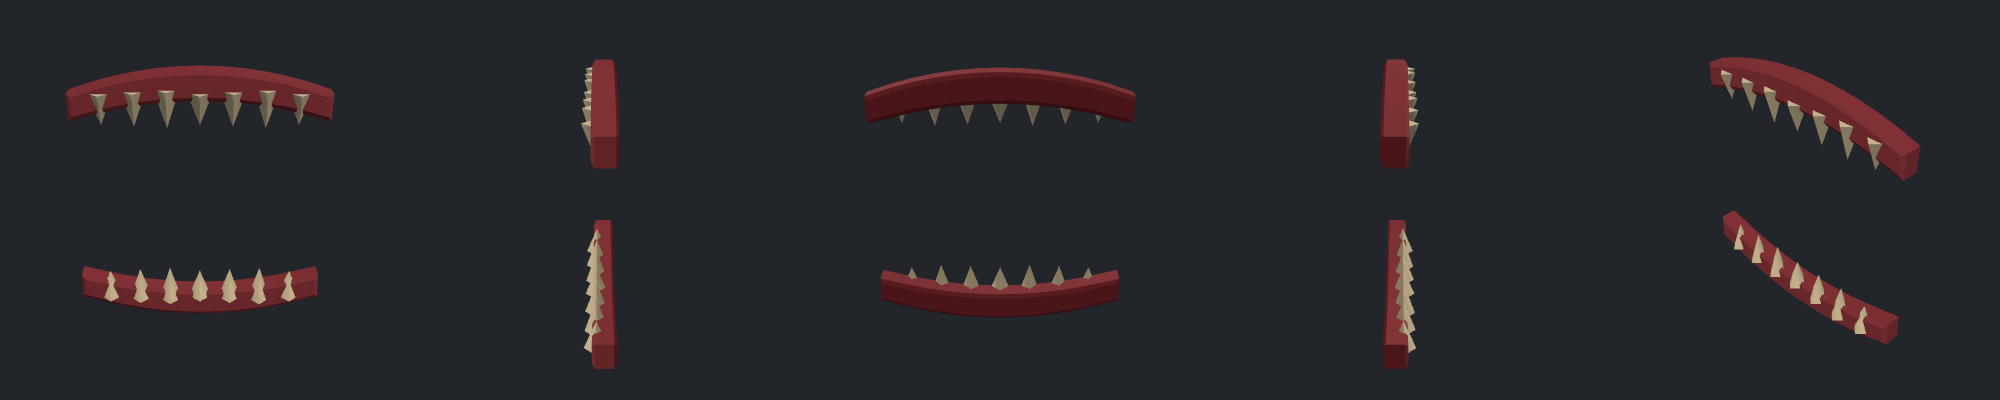
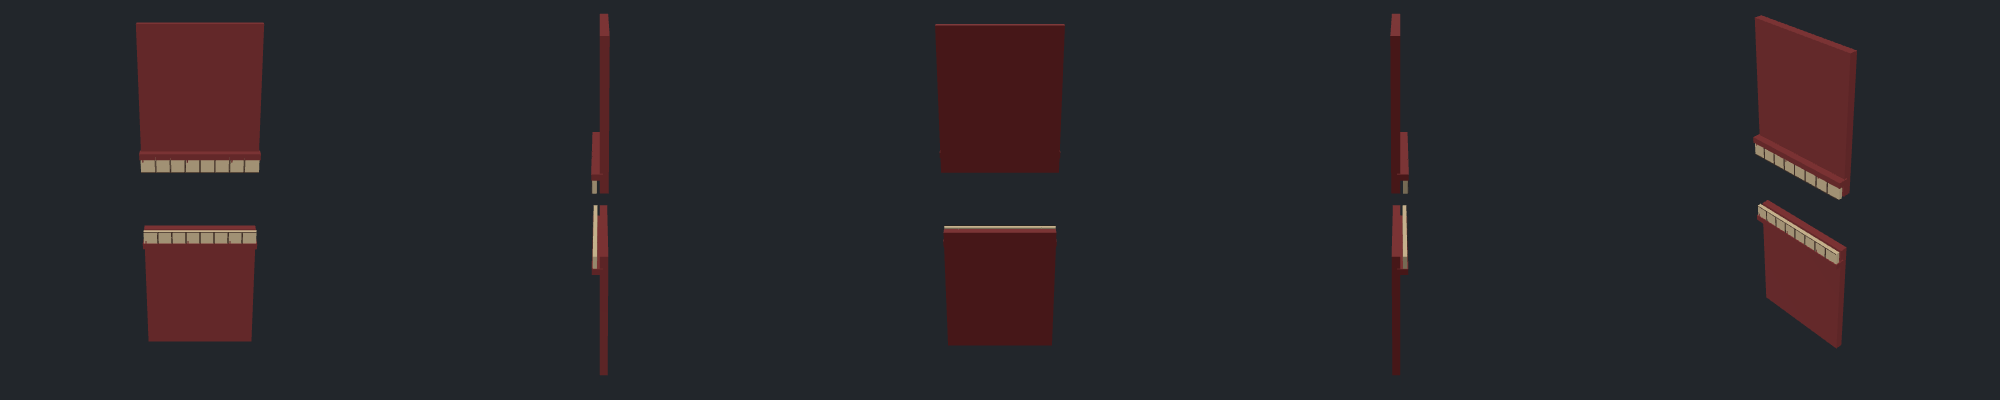
Close clown jaws continuously with a sealed tooth seam

diff --git a/two-d/street.js b/two-d/street.js
@@ -1,3 +1,4 @@
+import {mouthProgress} from './levels/mouth-motion.js';
 import {createForecourt} from './forecourt.js';
 import {createPropRenderer} from './three-props.js';
 import {createToyInspector} from './toy-inspection.js';
@@ -65,7 +66,7 @@ const fog=document.createElement('canvas');fog.width=160;fog.height=60;const fg=
 function fogLayer(){ctx.save();ctx.globalAlpha=.22;for(let i=0;i<4;i++){const drift=reduced?0:Math.sin(s.time*.06+i)*42;ctx.drawImage(fog,-70+i*138+drift,235+Math.sin(i)*27,240,65);}ctx.restore();}
 function paper(){if(s.newspaper)return;ctx.save();ctx.translate(63,242);ctx.rotate(-.25);rect(-8,-4,18,11,'#392e21aa');rect(-9,-5,18,10,'#c0ac79');rect(-8,-4,16,2,'#4c4030');line(0,-1,0,4,'#776243');for(let j=0;j<3;j++){rect(-7,-1+j*2,6,1,'#796647');rect(2,-1+j*2,5,1,'#796647');}ctx.restore();}
 function flashlight(){if(!s.light)return;const a={up:-Math.PI/2,down:Math.PI/2,left:Math.PI,right:0}[s.face],x=s.x,y=s.y-9;ctx.save();ctx.globalCompositeOperation='screen';const g=ctx.createRadialGradient(x,y,2,x,y,73);g.addColorStop(0,'#bda05c35');g.addColorStop(1,'#bda05c00');ctx.fillStyle=g;ctx.beginPath();ctx.moveTo(x,y);ctx.arc(x,y,73,a-.38,a+.38);ctx.closePath();ctx.fill();ctx.restore();}
-function render(){ctx.clearRect(0,0,480,360);if(ready)ctx.drawImage(bg,0,0,480,360);ferris();forecourt?.draw(ctx,s,false);lighting();paper();props.draw(ctx,'ticket');props.draw(ctx,'toy');if(s.y>=150)props.draw(ctx,'gate',s.gateProgress);if(running||s.phase==='complete'){drawPlayer(ctx,s,(keys.size||route.length)&&!paused&&!dialog);flashlight();}forecourt?.draw(ctx,s,true);if(s.phase==='entering'){props.draw(ctx,'mouth',Math.min(1,Math.max(0,(s.entryTime-.35)/1.3)));}props.drawRavens(ctx,s.ravens);if(s.y<150)props.draw(ctx,'gate',s.gateProgress);fogLayer();
+function render(){ctx.clearRect(0,0,480,360);if(ready)ctx.drawImage(bg,0,0,480,360);ferris();forecourt?.draw(ctx,s,false);lighting();paper();props.draw(ctx,'ticket');props.draw(ctx,'toy');if(s.y>=150)props.draw(ctx,'gate',s.gateProgress);if(running||s.phase==='complete'){ctx.save();if(s.phase==='entering')ctx.globalAlpha=Math.max(0,1-s.entryTime/.65);drawPlayer(ctx,s,(keys.size||route.length)&&!paused&&!dialog);if(s.phase!=='entering')flashlight();ctx.restore();}forecourt?.draw(ctx,s,true);if(s.phase==='entering'){props.draw(ctx,'mouth',mouthProgress(s.entryTime));}props.drawRavens(ctx,s.ravens);if(s.y<150)props.draw(ctx,'gate',s.gateProgress);fogLayer();
   if(route.length){const p=route.at(-1);ctx.strokeStyle='#d8c69888';ctx.beginPath();ctx.ellipse(p.x,p.y,4,2,0,0,Math.PI*2);ctx.stroke();}
   if(s.phase==='entering'){ctx.fillStyle=`rgba(3,5,5,${Math.max(0,(s.entryTime-1.8)/.8)})`;ctx.fillRect(0,0,480,360);}
   if(paused){ctx.fillStyle='#080e0cc9';ctx.fillRect(0,0,480,360);ctx.fillStyle='#d9c49d';ctx.font='16px monospace';ctx.textAlign='center';ctx.fillText('PAUSED',240,176);ctx.textAlign='left';}
@@ -79,4 +80,4 @@ function frame(now){const dt=Math.min(.04,(now-last)/1000);last=now;if(running&&
   if(s.gateProgress>=1&&s.y<138){persist();finish();}
 }}render();requestAnimationFrame(frame);}
 bg.onload=()=>{forecourt=createForecourt(bg);ready=true;$('#start').disabled=false;$('#start').textContent='BEGIN INVESTIGATION';$('#resume').hidden=!saved()&&!hallSave();};bg.onerror=()=>{$('#start').textContent='BACKGROUND FAILED — RELOAD';};
-Object.defineProperty(window,'fright2d',{get:()=>JSON.parse(JSON.stringify({...s,area:'street',running,paused,dialog:dialog?.name||null,inspection:inspector.snapshot(),toyInspection:toyInspector.snapshot(),props3d:props.snapshot(),foreground:forecourt?.snapshot(),ready,near:near(s)?.id||null,route:route.length,notes:campaign.journal.map(n=>n.id),wheelAngle:wheelAngle(s.time*(reduced?.3:1)),bulbs:bulbs.map((_,i)=>bulbLevel(s.time,i,reduced)),audio:Object.fromEntries(Object.entries(sound).map(([id,a])=>[id,{paused:a.paused,time:a.currentTime}]))}))});requestAnimationFrame(frame);
+Object.defineProperty(window,'fright2d',{get:()=>JSON.parse(JSON.stringify({...s,area:'street',running,paused,dialog:dialog?.name||null,inspection:inspector.snapshot(),toyInspection:toyInspector.snapshot(),props3d:props.snapshot(),mouthClosure:s.phase==='entering'?mouthProgress(s.entryTime):0,foreground:forecourt?.snapshot(),ready,near:near(s)?.id||null,route:route.length,notes:campaign.journal.map(n=>n.id),wheelAngle:wheelAngle(s.time*(reduced?.3:1)),bulbs:bulbs.map((_,i)=>bulbLevel(s.time,i,reduced)),audio:Object.fromEntries(Object.entries(sound).map(([id,a])=>[id,{paused:a.paused,time:a.currentTime}]))}))});requestAnimationFrame(frame);

diff --git a/two-d/three-props.js b/two-d/three-props.js
@@ -1,3 +1,4 @@
+import {poseJaws} from './levels/mouth-motion.js';
 import * as THREE from '../vendor/three.module.js';
 import turnstile from './assets/three/broken-turnstile.js';
 import carousel from './assets/three/windup-carousel.js';
@@ -11,12 +12,13 @@ export function createPropRenderer(){
  const scene=new THREE.Scene(),camera=new THREE.OrthographicCamera(-1.05,1.05,1.2,-1.2,.01,20);camera.position.set(1.8,2.2,5);camera.lookAt(0,.6,0);
  scene.add(new THREE.HemisphereLight(0xdacbb5,0x252e2b,2));const light=new THREE.DirectionalLight(0xffd396,3);light.position.set(-3,5,4);scene.add(light);
  const gate=turnstile(THREE),toy=carousel(THREE),stub=ticket(THREE),mouth=jaws(THREE),raven=ravenAsset(THREE);scene.add(gate,toy,stub,mouth,raven);raven.scale.setScalar(4);stub.scale.setScalar(13);stub.position.y=.3;stub.rotation.x=-.5;stub.rotation.z=.25;toy.scale.setScalar(4);toy.position.y=.15;
- const cache=new Map();let lastProgress=-1;
+ const mouthCamera=new THREE.OrthographicCamera(-1.04,1.04,1.18,-1.18,.01,20),mouthCenter=(mouth.userData.motion.lowerY+mouth.userData.motion.upperY)/2;mouthCamera.position.set(0,mouthCenter,6);mouthCamera.lookAt(0,mouthCenter,0);
+ const cache=new Map(),progressCache=new Map();
  return {drawRavens(ctx,birds){for(const r of birds){if(r.phase==='gone')continue;const p=ravenPose(r);gate.visible=toy.visible=stub.visible=mouth.visible=false;raven.visible=true;raven.userData.joints.wings.forEach((w,i)=>w.rotation.x=(i?1:-1)*(r.phase==='perched'?1.3:p.wing));renderer.render(scene,camera);ctx.save();ctx.translate(Math.round(p.x),Math.round(p.y-p.height));ctx.scale(r.dx,1);ctx.drawImage(renderer.domElement,-15,-25,30,30);ctx.restore();}raven.visible=false;},draw(ctx,kind,progress=0){
-  if(!cache.has(kind)||((kind==='gate'||kind==='mouth')&&progress!==lastProgress)){
-   raven.visible=false;mouth.visible=kind==='mouth';mouth.userData.joints.lower.position.y=mouth.userData.joints.lower.userData.baseY+progress*1.36;gate.visible=kind==='gate';toy.visible=kind==='toy';stub.visible=kind==='ticket';gate.userData.joints.spindle.rotation.z=progress*Math.PI/2;renderer.render(scene,camera);
-   const frame=cache.get(kind)||document.createElement('canvas');frame.width=frame.height=96;frame.getContext('2d').drawImage(renderer.domElement,0,0);cache.set(kind,frame);if(kind==='gate'||kind==='mouth')lastProgress=progress;
+  if(!cache.has(kind)||((kind==='gate'||kind==='mouth')&&progress!==progressCache.get(kind))){
+   raven.visible=false;mouth.visible=kind==='mouth';poseJaws(mouth,progress);gate.visible=kind==='gate';toy.visible=kind==='toy';stub.visible=kind==='ticket';gate.userData.joints.spindle.rotation.z=progress*Math.PI/2;renderer.render(scene,kind==='mouth'?mouthCamera:camera);
+   const frame=cache.get(kind)||document.createElement('canvas');frame.width=frame.height=96;frame.getContext('2d').drawImage(renderer.domElement,0,0);cache.set(kind,frame);progressCache.set(kind,progress);
   }
-  if(kind==='gate')ctx.drawImage(cache.get(kind),221,119,37,36);else if(kind==='mouth')ctx.drawImage(cache.get(kind),211,89,60,68);else if(kind==='toy')ctx.drawImage(cache.get(kind),294,248,27,27);else ctx.drawImage(cache.get(kind),131,257,24,21);
+  if(kind==='gate')ctx.drawImage(cache.get(kind),221,119,37,36);else if(kind==='mouth'){ctx.save();ctx.beginPath();ctx.moveTo(220,150);ctx.lineTo(220,113);ctx.quadraticCurveTo(239,65,261,113);ctx.lineTo(261,150);ctx.closePath();ctx.clip();ctx.drawImage(cache.get(kind),211,89,60,68);ctx.restore();}else if(kind==='toy')ctx.drawImage(cache.get(kind),294,248,27,27);else ctx.drawImage(cache.get(kind),131,257,24,21);
  },snapshot(){return {draws:renderer.info.render.calls,triangles:renderer.info.render.triangles};}};
 }

diff --git a/two-d/assets/three/clown-jaws.js b/two-d/assets/three/clown-jaws.js
@@ -1,5 +1,25 @@
+// Two continuous, opaque jaw panels. Their tooth edges share one closing seam.
 export default function generate(THREE){
- const root=new THREE.Group(),red=new THREE.MeshStandardMaterial({color:0x79282c,roughness:.9}),bone=new THREE.MeshStandardMaterial({color:0xbda985,roughness:.92}),dark=new THREE.MeshStandardMaterial({color:0x171211,roughness:1});
- function lip(g,lower){const s=new THREE.Shape();s.moveTo(-.9,0);s.quadraticCurveTo(0,lower?-.32:.32,.9,0);s.lineTo(.9,lower?.14:-.14);s.quadraticCurveTo(0,lower?-.14:.14,-.9,lower?.14:-.14);s.closePath();g.add(new THREE.Mesh(new THREE.ExtrudeGeometry(s,{depth:.13,bevelEnabled:true,bevelSize:.03,bevelThickness:.02,bevelSegments:1,steps:1}),red));for(let i=0;i<7;i++){const tooth=new THREE.Mesh(new THREE.ConeGeometry(.09,.23+(i%3)*.025,4),bone);tooth.position.set(-.7+i*.233,lower?.09:-.09,.12);tooth.rotation.z=lower?0:Math.PI;g.add(tooth);}}
- const lower=new THREE.Group(),upper=new THREE.Group();root.add(lower,upper);lip(lower,true);lip(upper,false);upper.position.y=1.6;root.userData.joints={lower,upper};const bounds=new THREE.Box3().setFromObject(root),center=bounds.getCenter(new THREE.Vector3());for(const c of root.children){c.position.x-=center.x;c.position.z-=center.z;c.position.y-=bounds.min.y;}lower.userData.baseY=lower.position.y;return root;
+ const root=new THREE.Group(),red=new THREE.MeshStandardMaterial({color:0x742a2b,roughness:.96}),bone=new THREE.MeshStandardMaterial({color:0xbda985,roughness:.92});
+ const seam=new THREE.MeshStandardMaterial({color:0x493429,roughness:1});
+ const lower=new THREE.Group(),upper=new THREE.Group();root.add(lower,upper);upper.position.y=1.6;
+ const depth=.24,width=1.96;
+ for(const [group,sign]of [[lower,1],[upper,-1]]){
+  // Extending the gum behind each row prevents the original doorway showing
+  // beneath the rising jaw or between neighboring teeth. The scene clips the
+  // panels to the doorway silhouette.
+  const backing=new THREE.Mesh(new THREE.BoxGeometry(width,2.4,.14),red);backing.position.set(0,sign*(depth-1.2),-.06);group.add(backing);
+  for(let i=0;i<8;i++){
+   const left=-width/2+i*width/8,right=left+width/8,tip=sign*depth;
+   const shape=new THREE.Shape();shape.moveTo(left,0);shape.lineTo(right,0);shape.lineTo(right,tip);shape.lineTo(left,tip);shape.closePath();
+   const tooth=new THREE.Mesh(new THREE.ExtrudeGeometry(shape,{depth:.055,bevelEnabled:true,bevelSize:.003,bevelThickness:.008,bevelSegments:2,steps:1}),bone);tooth.position.z=.06;group.add(tooth);
+   if(i>0){const line=new THREE.Mesh(new THREE.BoxGeometry(.025,depth,.004),seam);line.position.set(left,sign*depth/2,.132);group.add(line);}
+   const biteLine=new THREE.Mesh(new THREE.BoxGeometry(width/8,.035,.004),seam);biteLine.position.set((left+right)/2,tip,.133);group.add(biteLine);
+   // Narrow stains sit on the tooth, never open into the doorway.
+   if(i%3===0){const stain=new THREE.Mesh(new THREE.BoxGeometry(.018,.055,.002),red);stain.position.set(left+.036,sign*.04,.123);group.add(stain);}
+  }
+  const lip=new THREE.Mesh(new THREE.BoxGeometry(width+.04,.105,.18),red);lip.position.set(0,-sign*.035,.05);group.add(lip);
+ }
+ const bounds=new THREE.Box3().setFromObject(root),center=bounds.getCenter(new THREE.Vector3());for(const c of root.children){c.position.x-=center.x;c.position.z-=center.z;c.position.y-=bounds.min.y;}
+ root.userData.joints={lower,upper};root.userData.motion={lowerY:lower.position.y,upperY:upper.position.y,travel:.56,toothDepth:depth};return root;
 }

diff --git a/two-d/assets/three/_verify/sheet.html b/two-d/assets/three/_verify/sheet.html
@@ -19,7 +19,7 @@
   <img src="/__target__/_verify/broken-turnstile.png"></div>
 <div class="r"><div class="h"><span class="n">clown-jaws</span>
   <span class="s">ok</span>
-  <span style="color:#888">520 tris, 16 meshes</span></div>
+  <span style="color:#888">1184 tris, 56 meshes</span></div>
   <img src="/__target__/_verify/clown-jaws.png"></div>
 <div class="r"><div class="h"><span class="n">raven</span>
   <span class="s">ok</span>

diff --git a/two-d/levels/mouth-motion.js b/two-d/levels/mouth-motion.js
@@ -1,0 +1,2 @@
+export function mouthProgress(time){const t=Math.max(0,Math.min(1,time/1.45));return t*t*(3-2*t);}
+export function poseJaws(root,progress){const p=Math.max(0,Math.min(1,progress)),m=root.userData.motion,{lower,upper}=root.userData.joints;lower.position.y=m.lowerY+m.travel*p;upper.position.y=m.upperY-m.travel*p;return {lowerEdge:lower.position.y+m.toothDepth,upperEdge:upper.position.y-m.toothDepth};}

diff --git a/ITERATIONS.md b/ITERATIONS.md
@@ -154,3 +154,9 @@ Improved: newspaper selection is unambiguous, the ticket can be examined from bo
 Validation: 42 model checks and desktop/emulated-touch runs through both implemented areas, with screenshots and browser-error checks in `validation/hybrid-street`.
 
 Final asset gate: all five standalone procedural modules pass the official 404 verifier (ticket, turnstile, jaws, raven and carousel). The first ticket verification page timed out while loading; a fresh full run completed 5/5 clean. The in-game front/back ticket views were visually checked. The kiosk interior uses dim 3D shelves, hooks and ticket stock instead of a flat empty opening. Hall resume/restart also pass, retaining street clues.
+
+## V13 — continuous mouth closure
+
+The upper and lower jaws now move together along one smooth closing curve, with both tooth rows meeting at the same seam. Continuous opaque backing fills the doorway behind the teeth; the lower jaw no longer leaves exposed background beneath it. A straight-on mouth camera removes oblique gaps, the actor disappears inside before the seal, and the scene fades only after closure. Independent per-object render-cache keys prevent the turnstile and mouth from sharing stale progress.
+
+Validation: the geometry test samples the motion to verify a monotonically shrinking gap and exactly meeting tooth edges. Browser captures at four points show continuous closure, verify pause freezes it, and confirm arrival in Level 2 without browser errors. Evidence: `validation/mouth-closure`.
